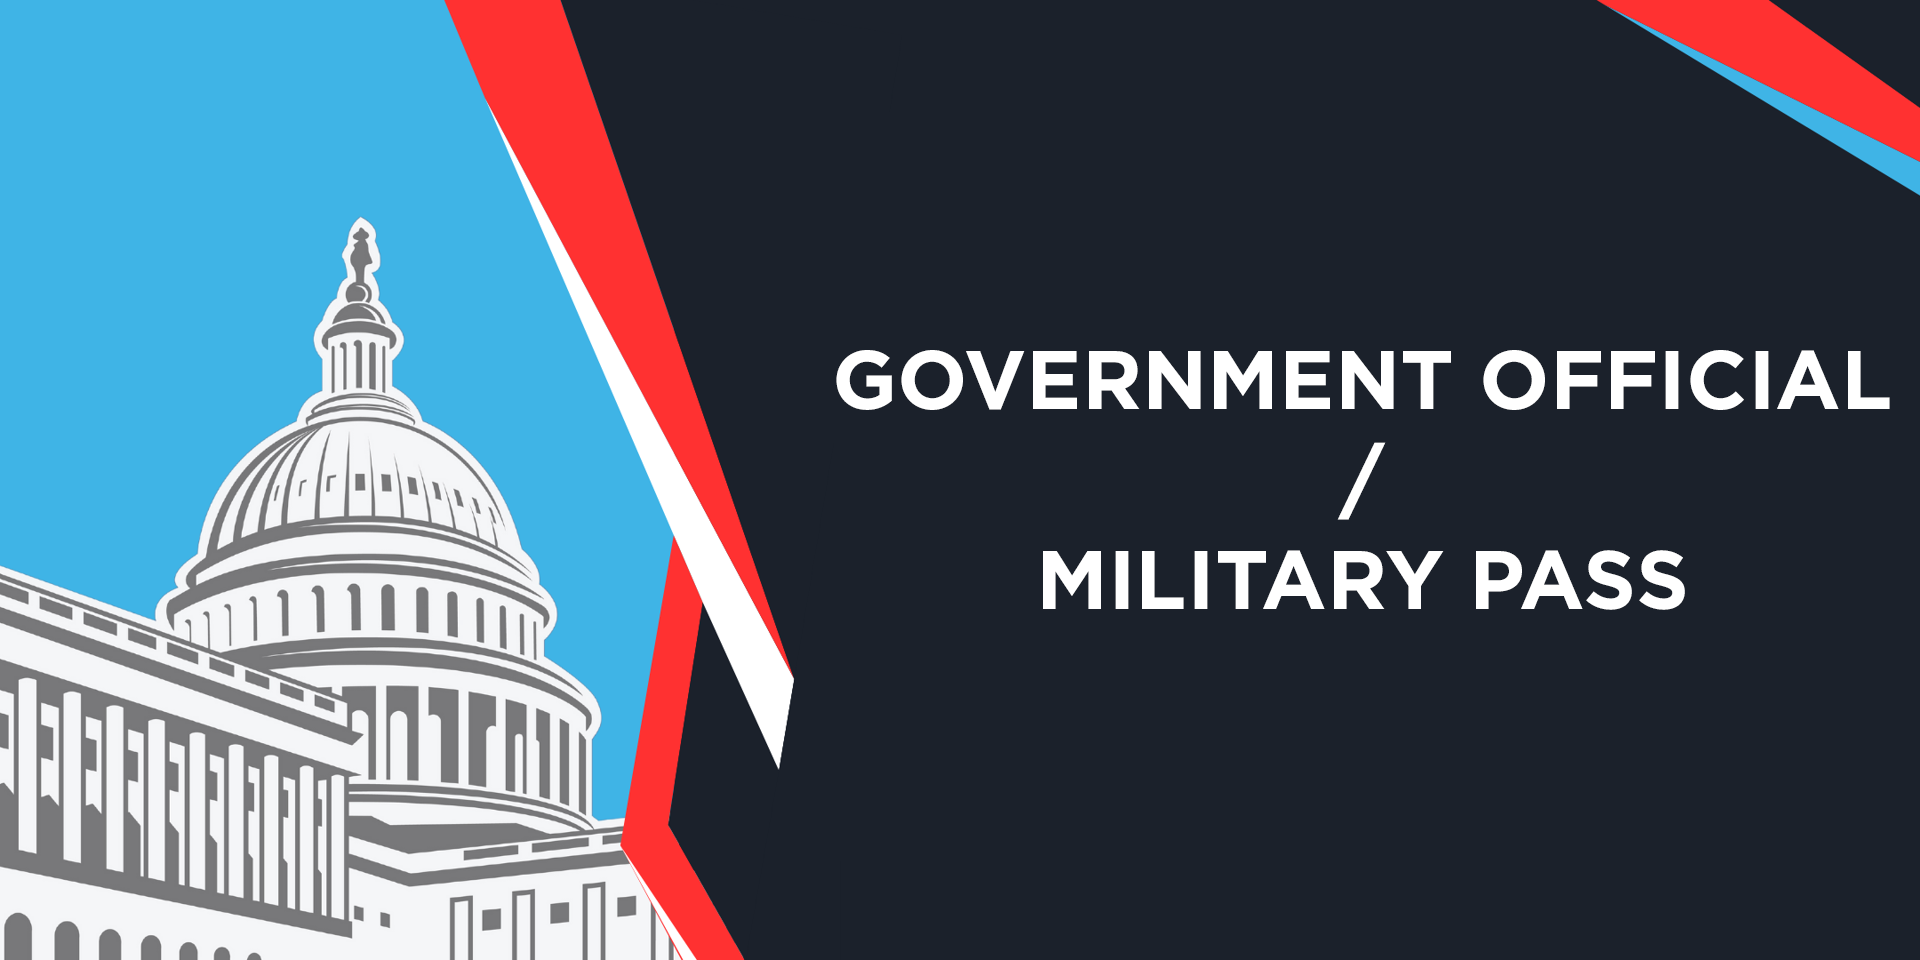
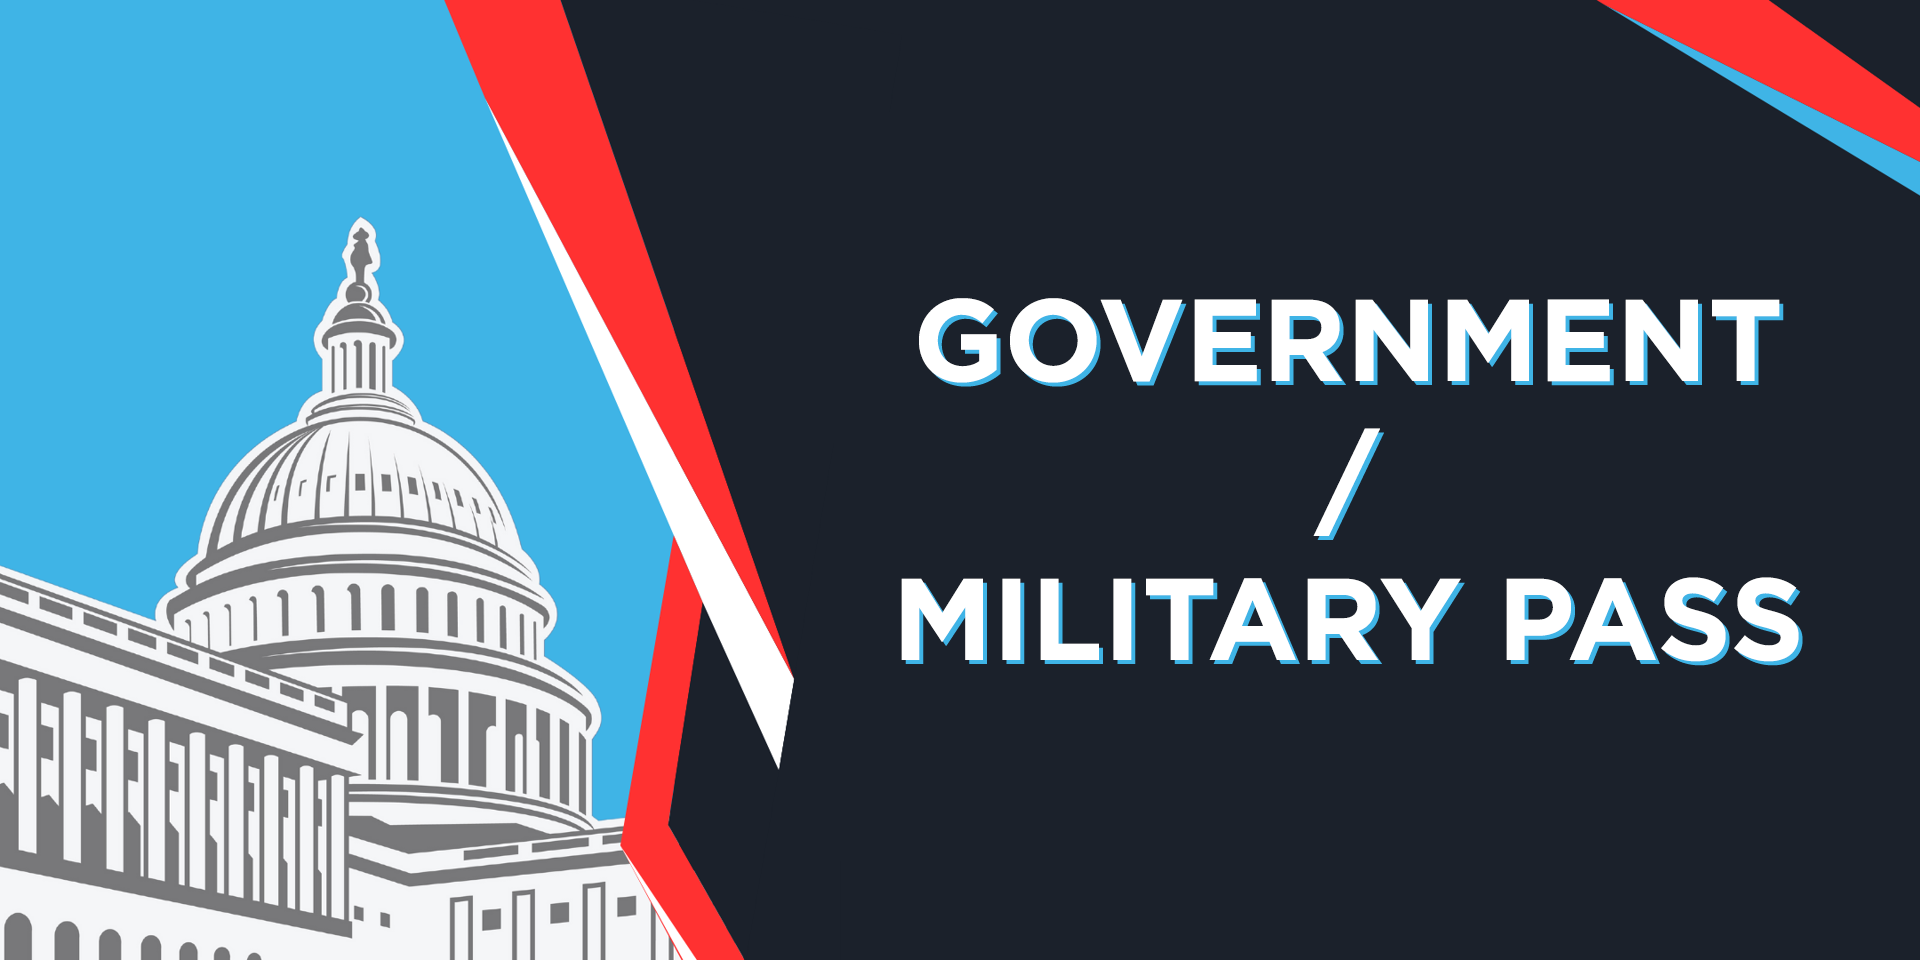
Updated registration to incldue button links & updated images

Changed region(s): [[0.4375, 0.3125, 1.0, 0.6875]]

diff --git a/src/constants/registrations.ts b/src/constants/registrations.ts
@@ -6,14 +6,17 @@ export const REGISTRATION_TYPES = [
                 title: "In-Person",
                 headerImage: "/registration-cards/attendee-pass.png",
                 perks: [
-                    "TBD",
-                    "TBD",
-                    "TBD",
-                    "TBD",
-                    "TBD",
+                    "Registration for 1 Person",
+                    "Access to All Event Sessions",
+                    "Speaker Presentations and Materials",
+                    "Digital/Physical Copies of Agenda",
+                    "Breakfast & Buffet Lunch",
+                    "Coffee Service",
+                    "Access to Photos & Videos from Conference",
                 ],
                 subtitle: "Includes:",
                 buttonText: "Register Now",
+                buttonLink: "/",
                 earlyBirdPrice: "$550",
                 regularPrice: "$750",
                 earlyBirdDeadline: "2024-10-01T03:00:00Z",
@@ -23,16 +26,36 @@ export const REGISTRATION_TYPES = [
                 title: "Government/Military Personnel Registration",
                 headerImage: "/registration-cards/gov-pass.png",
                 perks: [
-                    "TBD",
-                    "TBD",
-                    "TBD",
-                    "TBD",
-                    "TBD",
+                    "Registration for 1 Person",
+                    "Access to All Event Sessions",
+                    "Speaker Presentations and Materials",
+                    "Digital/Physical Copies of Agenda",
+                    "Breakfast & Buffet Lunch",
+                    "Coffee Service",
+                    "Access to Photos & Videos from Conference",
                 ],
                 subtitle: "Includes:",
                 buttonText: "Register Now",
+                buttonLink: "/",
                 type: "complimentary",
                 availabilityInfo: "Limited availability."
+            },
+            {
+                title: "Sponsor",
+                headerImage: "/registration-cards/sponsor-pass.png",
+                perks: [
+                    "Brand Visibility",
+                    "Speaking Opportunity",
+                    "Recognition",
+                    "Reception (Premiere)/Luncheon (Prestige) Hosting",
+                    "Display Table",
+                    "Event Access",
+                    "Media Coverage",
+                ],
+                subtitle: "Includes:",
+                buttonText: "Explore Sponsorship Opportunities",
+                buttonLink: "/about/sponsor",
+                type: "paid",
             },
         ],
         addOns: [

diff --git a/src/app/components/RegistrationCard.tsx b/src/app/components/RegistrationCard.tsx
@@ -1,6 +1,10 @@
+"use client";
+
 import React from 'react';
 import { ChevronRight } from 'lucide-react';
 import Image from 'next/image';
+import Link from 'next/link';
+import { useParams } from 'next/navigation';
 
 type RegistrationTypes = {
     title: string;
@@ -8,6 +12,7 @@ type RegistrationTypes = {
     subtitle: string;
     perks: string[];
     buttonText: string;
+    buttonLink: string;
     type: string;
     earlyBirdPrice?: string;
     regularPrice?: string;
@@ -20,6 +25,7 @@ type RegistrationProp = {
 };
 
 const RegistrationCard = ({ item }: RegistrationProp) => {
+    const params = useParams()
     const isPaid = item.type === 'paid';
     const isEarlyBird = isPaid && new Date() < new Date(item.earlyBirdDeadline!);
     const currentPrice = isPaid ? (isEarlyBird ? item.earlyBirdPrice : item.regularPrice) : 'Complimentary';
@@ -64,7 +70,7 @@ const RegistrationCard = ({ item }: RegistrationProp) => {
                     )}
                     {isPaid && !isEarlyBird && (
                         <p className="text-sm text-center text-gray-600 mb-2">
-                            Regular price
+                            {/* Regular price */}
                         </p>
                     )}
                     {!isPaid && item.availabilityInfo && (
@@ -72,9 +78,12 @@ const RegistrationCard = ({ item }: RegistrationProp) => {
                             {item.availabilityInfo}
                         </p>
                     )}
-                    <button className="w-full py-2 px-4 bg-blue-800  text-white font-semibold rounded-md hover:bg-navy-200 transition duration-300">
-                        {item.buttonText}
-                    </button>
+                    <Link
+                        href={`${params.slug}/${item.buttonLink}`}>
+                        <button className="w-full py-2 px-4 bg-blue-800  text-white font-semibold rounded-md hover:bg-navy-200 transition duration-300">
+                            {item.buttonText}
+                        </button>
+                    </Link>
                 </div>
             </div>
         </div>
